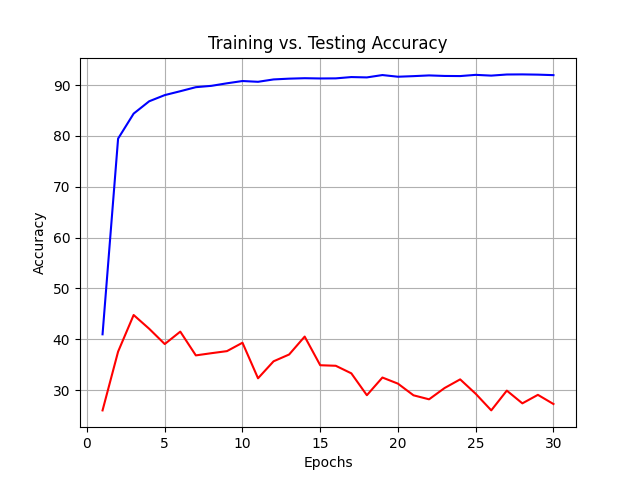
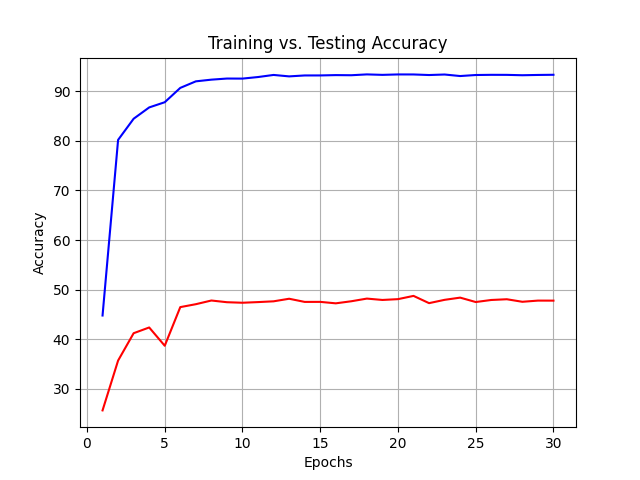
batch normalization removed due to poor performance

diff --git a/packages/networks.py b/packages/networks.py
@@ -63,50 +63,34 @@ class Network(nn.Module):
         # Fully Convolutional Layers
         self.custom_conv1 = nn.Sequential(
             nn.Conv2d(1, 32, kernel_size=5, stride=1),
-            nn.BatchNorm2d(32),
             nn.ReLU(inplace=True),
             nn.MaxPool2d(kernel_size=2, stride=2)
         ) # dim: 64 -> 60 -> 30
 
         self.custom_conv2 = nn.Sequential(
             nn.Conv2d(32, 64, kernel_size=5, stride=1),
-            nn.BatchNorm2d(64),
             nn.ReLU(inplace=True),
             nn.MaxPool2d(kernel_size=2, stride=2)
         ) # dim: 30 -> 26 -> 13
 
         self.custom_conv3 = nn.Sequential(
             nn.Conv2d(64, 128, kernel_size=3, stride=1),
-            nn.BatchNorm2d(128),
             nn.ReLU(inplace=True)
         ) # dim: 13 -> 11
 
         self.custom_conv4 = nn.Sequential(
             nn.Conv2d(128, 128, kernel_size=3, stride=1),
-            nn.BatchNorm2d(128),
             nn.ReLU(inplace=True)
         ) # dim: 11 -> 9
 
         self.custom_conv5 = nn.Sequential(
             nn.Conv2d(128, 256, kernel_size=3, stride=1),
-            nn.BatchNorm2d(256),
             nn.ReLU(inplace=True),
             nn.MaxPool2d(kernel_size=2, stride=2)
         ) # dim: 9 -> 7 -> 3
-
-        self.alex_fcs = nn.Sequential(
-            nn.Flatten(),
-            nn.Linear(3*3*256, 1024),
-            nn.ReLU(inplace=True),
-            nn.Dropout(0.5),
-            nn.Linear(1024, 512),
-            nn.ReLU(inplace=True),
-            nn.Dropout(0.5)
-        )
         
         self.fcn_layer = nn.Sequential(
             nn.Conv2d(256, 512, kernel_size=3, stride=1),
-            nn.BatchNorm2d(512),
             nn.ReLU(inplace=True)
         ) # dim: 3 -> 1
 
